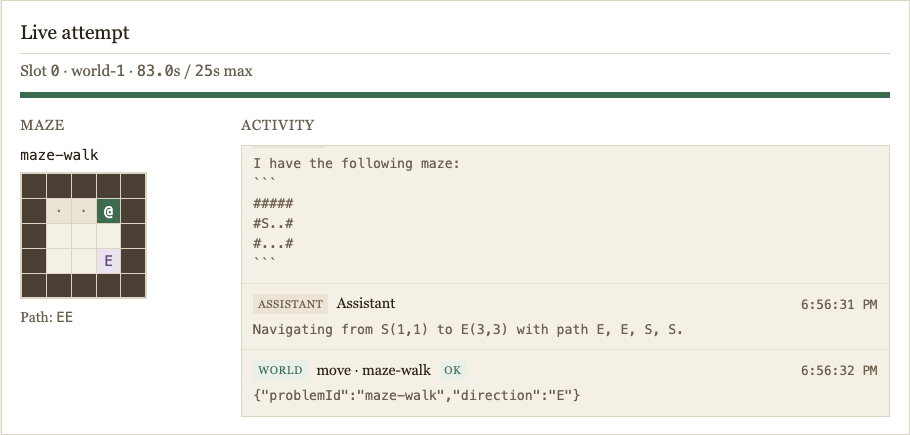
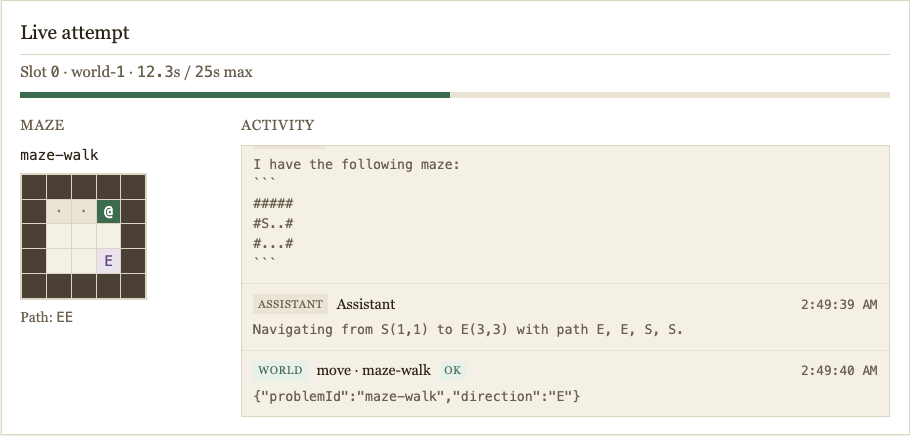
Update README screenshots for current viewer UI.
Add hero results view, run-configuration dashboard, and refreshed
live maze panel; remove obsolete viewer.png.

diff --git a/README.md b/README.md
@@ -2,9 +2,9 @@
 
 Eval-style harness: one durable Cursor SDK agent visits each isolated Docker **world** container once (seeded order), solving pluggable task-pack problems via HTTP MCP.
 
-World Hop Benchmark viewer — quick profile, 3/3 solved
+Completed run — tasks solved, world timeline, and per-slot metrics
 
-*Completed `configs/quick.json` run after rebuild: 3 worlds, 3/3 tasks solved, 11s total.*
+*Example: `configs/quick.json` via comparison sweep — Composer 2.5, 3/3 tasks, ~12s wall time.*
 
 ## Architecture
 
@@ -17,7 +17,7 @@ World Hop Benchmark viewer — quick profile, 3/3 solved
 This benchmark does **not** call a raw chat-completions API or maintain its own `messages[]` tool loop. The orchestrator uses `**@cursor/sdk`’s `Agent` harness**:
 
 1. `**Agent.create`** — one durable agent for the whole run (local `cwd` = `[packages/agent-stub](packages/agent-stub)`; tasks are not solved in that tree).
-2. `**agent.send(prompt, { mcpServers })**` — each world visit starts a new SDK `**Run**` with the `world` HTTP MCP server attached for that slot only.
+2. `**agent.send(prompt, { mcpServers })`** — each world visit starts a new SDK `**Run**` with the `world` HTTP MCP server attached for that slot only.
 3. `**run.stream()**` — the harness drives the model/tool loop; the orchestrator only consumes events (assistant text, thinking, MCP tool calls) for the live viewer and metrics.
 4. `**run.cancel()**` — when a task is solved early or the slot times out, the orchestrator stops the run; SDK status may read `cancelled` even when the bench records `exitReason: solved`.
 
@@ -27,7 +27,7 @@ That is the same **programmatic agent runtime** Cursor exposes for SDK/CLI agent
 
 At bench start, selected tasks are shuffled (seeded) and assigned 1:1 to worlds via `WORLD_ASSIGNMENTS`. The agent visits **each world exactly once** in a seeded visit order (`worldVisitOrder`). It **cannot choose tasks** — it must solve whichever task is assigned to the world it lands on. `**worldCount` must equal the number of selected tasks**.
 
-Each slot ends as soon as the assigned task is successfully submitted (`slotMs` is a per-slot timeout cap). `**benchDurationMs`** is the total wall-clock cap and must be at least `**slotMs × worldCount**` so every world can be visited if each slot uses its full timeout. Runs still end early when tasks are solved quickly; partial coverage only occurs if the agent is slow within individual slot caps.
+Each slot ends as soon as the assigned task is successfully submitted (`slotMs` is a per-slot timeout cap). `**benchDurationMs`** is the total wall-clock cap and must be at least `**slotMs × worldCount`** so every world can be visited if each slot uses its full timeout. Runs still end early when tasks are solved quickly; partial coverage only occurs if the agent is slow within individual slot caps.
 
 ## Prerequisites
 
@@ -63,11 +63,13 @@ Results land in `./results/<timestamp>.json`.
 
 **Suites are separate benchmarks** — `full` does **not** include maze tasks.
 
-| Suite | Config | Task pack | What the agent does |
-|-------|--------|-----------|---------------------|
-| **quick** | [`configs/quick.json`](configs/quick.json) | `example` (3 of 8 tasks) | File/shell puzzles: `math-quiz`, `find-flag`, `sum-numbers` |
-| **maze** | [`configs/maze.json`](configs/maze.json) | `maze` (3 tasks) | See maze breakdown below — **not** the same problems as quick/full |
-| **full** | [`configs/full.json`](configs/full.json) | `example` (all 8 tasks) | Full example pack; still no maze |
+
+| Suite     | Config                                     | Task pack                | What the agent does                                                |
+| --------- | ------------------------------------------ | ------------------------ | ------------------------------------------------------------------ |
+| **quick** | `[configs/quick.json](configs/quick.json)` | `example` (3 of 8 tasks) | File/shell puzzles: `math-quiz`, `find-flag`, `sum-numbers`        |
+| **maze**  | `[configs/maze.json](configs/maze.json)`   | `maze` (3 tasks)         | See maze breakdown below — **not** the same problems as quick/full |
+| **full**  | `[configs/full.json](configs/full.json)`   | `example` (all 8 tasks)  | Full example pack; still no maze                                   |
+
 
 **How to read the results table**
 
@@ -75,30 +77,34 @@ Results land in `./results/<timestamp>.json`.
 - **Median wall time** — median bench clock time (`endedAt − startedAt`) across the 3 seeds.
 - **Flawless on all 3 seeds** — `3/3` runs where every assigned task was solved (none of the three seeds had a miss).
 
-| Suite | Model | Avg solve rate | Median wall | Flawless on all 3 seeds | What failed (from run logs) |
-|-------|-------|----------------|-------------|-------------------------|-----------------------------|
-| quick | Composer 2.5 | 100% | **11.8s** | Yes (3/3) | — |
-| quick | GPT 5.5 | 100% | 32.8s | Yes (3/3) | — |
-| quick | Opus 4.7 | 100% | 24.6s | Yes (3/3) | — |
-| quick | Opus 4.8 | 100% | 34.0s | Yes (3/3) | — |
-| maze | Composer 2.5 | 67% | **32.0s** | No (0/3) | **`maze-medium` every seed** (2/3); path-submit task |
-| maze | GPT 5.5 | 100% | 49.3s | Yes (3/3) | — |
-| maze | Opus 4.7 | 89% | 53.4s | No (1/3) | **`maze-walk` on seed 42** (slot timeout); interactive task |
-| maze | Opus 4.8 | 78% | 61.3s | No (1/3) | **`maze-walk` on seeds 42 & 43** (timeouts) |
-| full | Composer 2.5 | 100% | **38.6s** | Yes (3/3) | — |
-| full | GPT 5.5 | 100% | 93.8s | Yes (3/3) | — |
-| full | Opus 4.7 | 96% | 95.9s | No (2/3) | One task missed on **seed 42 only** (7/8) |
-| full | Opus 4.8 | 96% | 96.0s | No (2/3) | One task missed on **seed 42 only** (7/8) |
+
+| Suite | Model        | Avg solve rate | Median wall | Flawless on all 3 seeds | What failed (from run logs)                                 |
+| ----- | ------------ | -------------- | ----------- | ----------------------- | ----------------------------------------------------------- |
+| quick | Composer 2.5 | 100%           | **11.8s**   | Yes (3/3)               | —                                                           |
+| quick | GPT 5.5      | 100%           | 32.8s       | Yes (3/3)               | —                                                           |
+| quick | Opus 4.7     | 100%           | 24.6s       | Yes (3/3)               | —                                                           |
+| quick | Opus 4.8     | 100%           | 34.0s       | Yes (3/3)               | —                                                           |
+| maze  | Composer 2.5 | 67%            | **32.0s**   | No (0/3)                | `**maze-medium` every seed** (2/3); path-submit task        |
+| maze  | GPT 5.5      | 100%           | 49.3s       | Yes (3/3)               | —                                                           |
+| maze  | Opus 4.7     | 89%            | 53.4s       | No (1/3)                | `**maze-walk` on seed 42** (slot timeout); interactive task |
+| maze  | Opus 4.8     | 78%            | 61.3s       | No (1/3)                | `**maze-walk` on seeds 42 & 43** (timeouts)                 |
+| full  | Composer 2.5 | 100%           | **38.6s**   | Yes (3/3)               | —                                                           |
+| full  | GPT 5.5      | 100%           | 93.8s       | Yes (3/3)               | —                                                           |
+| full  | Opus 4.7     | 96%            | 95.9s       | No (2/3)                | One task missed on **seed 42 only** (7/8)                   |
+| full  | Opus 4.8     | 96%            | 96.0s       | No (2/3)                | One task missed on **seed 42 only** (7/8)                   |
+
 
 **Maze task styles** (why failures cluster differently):
 
-| Task | Style | Agent workflow |
-|------|--------|----------------|
-| `maze-easy` | Path in one shot | Read layout → `submit(..., answer='NSEW…')` — verifier replays the whole path |
-| `maze-medium` | Path in one shot (larger grid) | Same as easy; Composer missed this on **every** seed |
-| `maze-walk` | Step-by-step | `move(E/W/N/S)` repeatedly, `maze_status`, then `submit` at exit — Opus often **timed out** (25s slot cap) |
 
-**Takeaways:** Composer 2.5 is fastest on every suite and flawless on quick/full, but never clears all three maze tasks (stuck on **`maze-medium`**). GPT 5.5 is slower but the only model **flawless on all three maze seeds**. Opus models are fine on quick; on maze they struggle with **`maze-walk`** (interactive), and on full they occasionally drop one example task on seed 42.
+| Task          | Style                          | Agent workflow                                                                                             |
+| ------------- | ------------------------------ | ---------------------------------------------------------------------------------------------------------- |
+| `maze-easy`   | Path in one shot               | Read layout → `submit(..., answer='NSEW…')` — verifier replays the whole path                              |
+| `maze-medium` | Path in one shot (larger grid) | Same as easy; Composer missed this on **every** seed                                                       |
+| `maze-walk`   | Step-by-step                   | `move(E/W/N/S)` repeatedly, `maze_status`, then `submit` at exit — Opus often **timed out** (25s slot cap) |
+
+
+**Takeaways:** Composer 2.5 is fastest on every suite and flawless on quick/full, but never clears all three maze tasks (stuck on `**maze-medium`**). GPT 5.5 is slower but the only model **flawless on all three maze seeds**. Opus models are fine on quick; on maze they struggle with `**maze-walk`** (interactive), and on full they occasionally drop one example task on seed 42.
 
 Reproduce or refresh:
 
@@ -116,6 +122,8 @@ npm run viewer
 ```
 
 Open [http://localhost:5173](http://localhost:5173) — configure runs from the dashboard, watch live results, or pick a past run from the dropdown.
+
+Run configuration — model, timing, task pack, and per-task selection
 
 The run form:
 
@@ -157,9 +165,9 @@ When using Docker, `TASK_PACK`, `PROBLEM_IDS`, and `WORLD_ASSIGNMENTS` must matc
 
 Dedicated pack with maze problems and extra MCP tools `move` and `maze_status`.
 
-Live maze solve — maze-walk on world-1 with path trail and activity feed
+Live maze solve — grid, path trail, and MCP activity feed
 
-*Live view during `configs/maze.json`: agent walking `maze-walk` step-by-step via `move`, grid updates as the path grows.*
+*Live view during `configs/maze.json`: agent walking `maze-walk` step-by-step via `move`; click **Watch live** while a run is in progress.*
 
 
 | Problem       | Type        | Description                                               |
